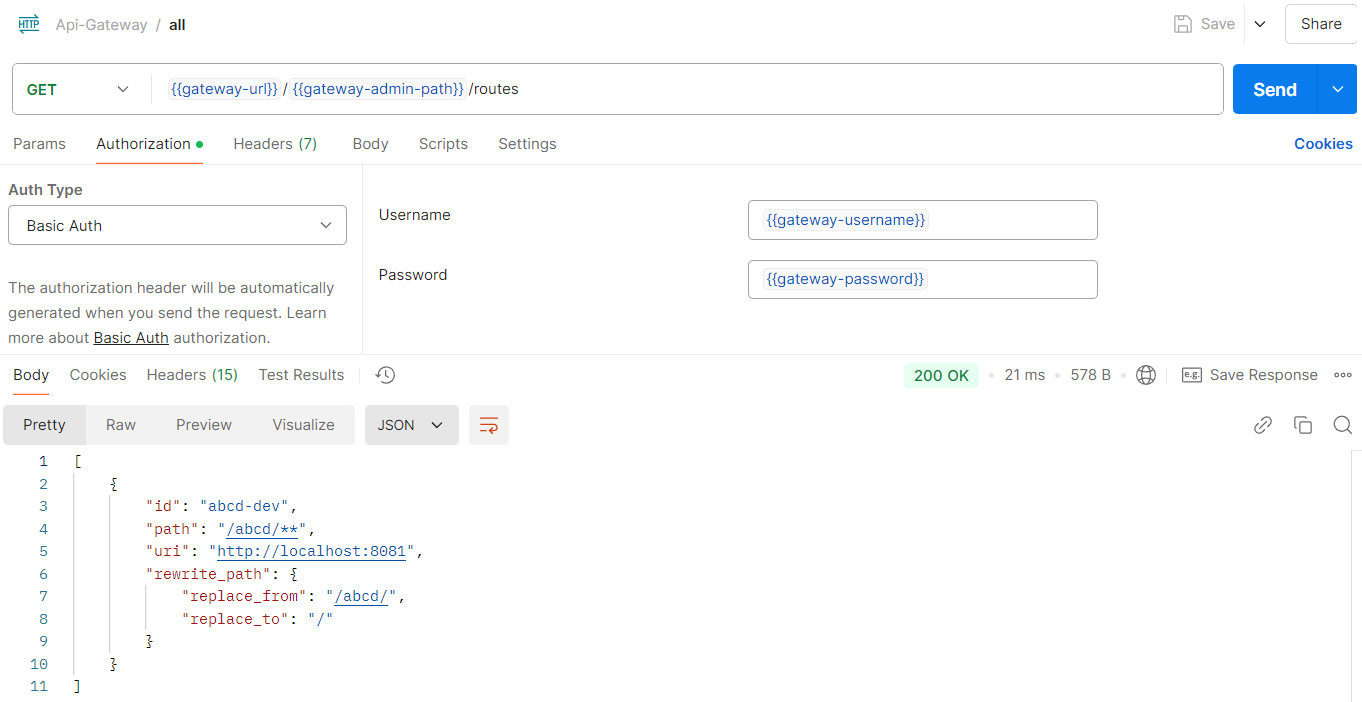
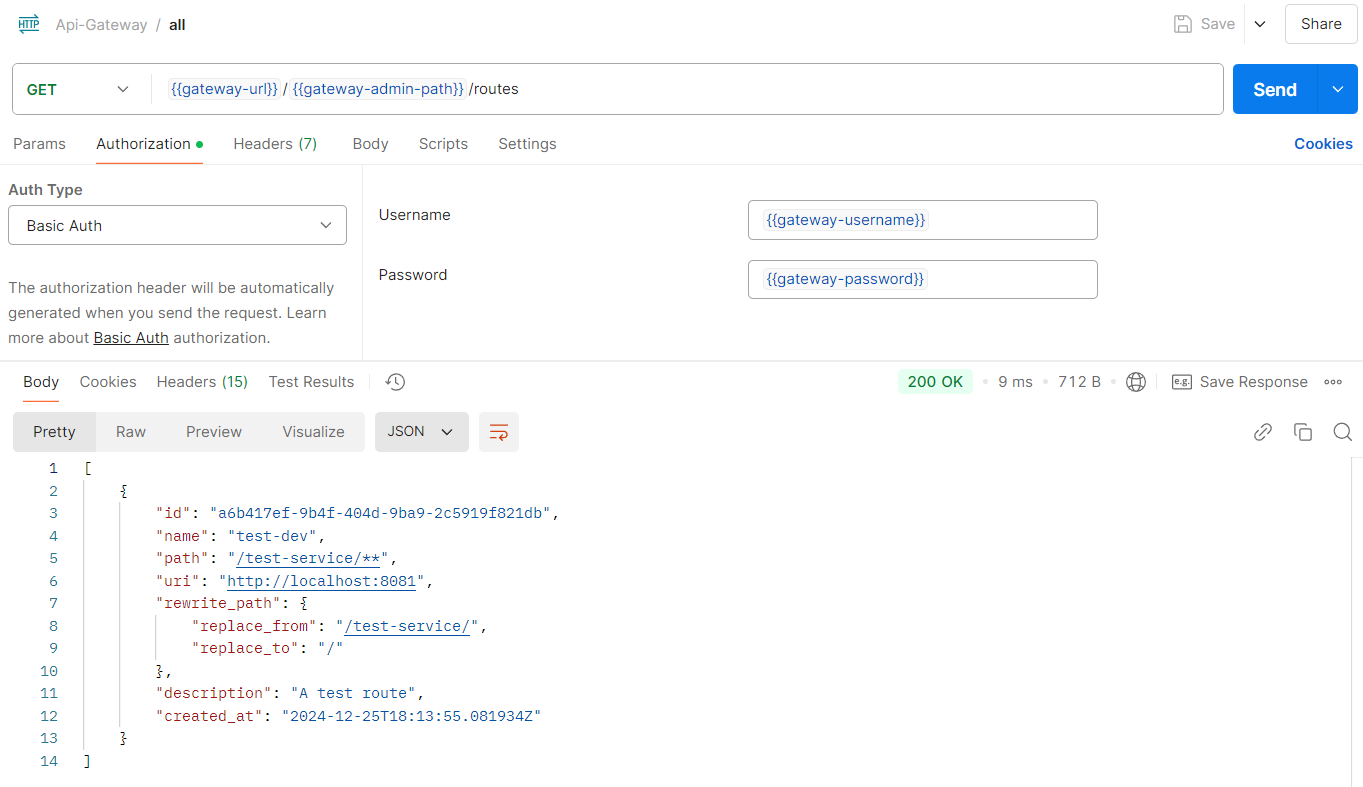
Impr [docs]: fix docs for version 4.x

diff --git a/src/main/java/dev/root101/api_gateway/App.java b/src/main/java/dev/root101/api_gateway/App.java
@@ -2,7 +2,9 @@ package dev.root101.api_gateway;
 
 import org.springframework.boot.SpringApplication;
 import org.springframework.boot.autoconfigure.SpringBootApplication;
+import org.springframework.boot.test.context.SpringBootTest;
 
+@SpringBootTest
 @SpringBootApplication
 public class App {
 

diff --git a/README.md b/README.md
@@ -24,7 +24,7 @@ try to use the latest tag, in this case 2.2.0)
 NOTE #4: We recommend that you always use the latest available version, this way you can enjoy all the features, a more
 polished project and an overall better experience.
 
-## This is the docs for version 3.x:
+## This is the docs for version 4.x:
 
 ---
 **title:** Api-Gateway </br>
@@ -37,11 +37,12 @@ polished project and an overall better experience.
 
 ---
 
-#### About v3.x:
+#### About v4.x:
 
-This version add a management api to configure the gateway services without redeploying the service.
+This version adds a postgres DB so that the route configuration can be saved and can be loaded if the service is
+restarted.
 
-This version include the api docs and a postman collection with preconfigured endpoints
+This version include the api docs and a postman collection with preconfigured endpoints.
 
 ### Env Variables to configure the service:
 
@@ -55,6 +56,11 @@ To configure the project we have a variety of environmental variables at our dis
 | ADMIN_USERNAME   | Username of the admin user                | text     | admin                       | 3.x              |
 | ADMIN_PASSWORD   | Password of the admin user                | text     | admin123**                  | 3.x              |
 | ADMIN_PATH       | Path of the admin (management) endpoints  | text     | _admin                      | 3.x              |
+| DB_HOST          | Host of the running DB                    | text     | localhost                   | 4.x              |
+| DB_PORT          | Port of the running DB                    | integer  | 5432                        | 4.x              |
+| DB_NAME          | Name of the DB                            | text     | api-gateway                 | 4.x              |
+| DB_USERNAME      | Username of the DB user                   | text     | postgres                    | 4.x              |
+| DB_PASSWORD      | Password of the DB user                   | text     | postgres_password           | 4.x              |
 
 ##### PORT, PROFILE & APPLICATION_NAME:
 
@@ -89,6 +95,17 @@ This way, if we have a service that is expected to be redirected to, and we want
 modify said variable so that that path is not occupied and the requests are redirected to the service instead of the
 configuration controller.
 
+##### DB_HOST, DB_PORT, DB_NAME, DB_USERNAME, DB_PASSWORD:
+
+These environment variables are used to configure the connection to the DB, and are then used as follows:
+
+```
+  r2dbc:
+    url: r2dbc:postgresql://${DB_HOST}:${DB_PORT}/${DB_NAME}          #jdbc:postgresql:/host:port/db-name?stringtype=unspecified
+    username: ${DB_USERNAME}                                          #postgres
+    password: ${DB_PASSWORD}                                          #admin123
+```
+
 ### Api docs:
 
 The administration API gives us access to endpoint to configure the routes, here we have:
@@ -96,13 +113,14 @@ The administration API gives us access to endpoint to configure the routes, here
 | Method | Endpoint                  | Description                                                                     | Body                |
 |--------|---------------------------|---------------------------------------------------------------------------------|---------------------|
 | GET    | /_admin/routes            | Get all configured routes in the gateway                                        | No body             |
+| GET    | /_admin/routes/{route-id} | Get details of a single route                                                   | No body             |
 | POST   | /_admin/routes            | Create a new route to redirect                                                  | Route model         |
 | POST   | /_admin/routes/multi-add  | Create multiple routes in same request                                          | List of Route model |
 | PUT    | /_admin/routes/{route-id} | Edit the route with id = route-id, replace it with route in body of the request | Route model         |
 | DELETE | /_admin/routes/{route-id} | Delete the route with id = route-id                                             | No body             |
 
 NOTE: if the value of env `ADMIN_PATH` changes, the endpoint will change. This table is based on the default value of
-this variable.
+this variable (_admin).
 
 #### Route model:
 
@@ -110,11 +128,12 @@ This is the full json of a route model.
 
 ```json
 {
-  "id": "abcd-dev",
-  "path": "/abcd/**",
+  "name": "test-dev",
+  "path": "/test-service/**",
   "uri": "http://localhost:8081",
+  "description": "A test route",
   "rewrite_path": {
-    "replace_from": "/abcd/",
+    "replace_from": "/test-service/",
     "replace_to": "/"
   }
 }
@@ -122,12 +141,13 @@ This is the full json of a route model.
 
 Here we have:
 
-| Field        | Required | Description                                                                                                 | Validations                        | Recommendations                                                                                                                                                                                                                                                             |
-|--------------|----------|-------------------------------------------------------------------------------------------------------------|------------------------------------|-----------------------------------------------------------------------------------------------------------------------------------------------------------------------------------------------------------------------------------------------------------------------------|
-| id           | true     | Name with which this route will be identified for edit/delete operations. Unique identifier for each route. | - Not null<br/>-Not Empty          | Use a unique, easy to identify value                                                                                                                                                                                                                                        |
-| path         | true     | Route with which the redirection to a specific service will be identified                                   | - Not null<br/>-Not Empty          | Use in the format /{path}/**, this means that all requests made to https://gateway/{path}/..... will be redirected to this route                                                                                                                                            |
-| uri          | true     | Url of the service to which you are going to redirect                                                       | - Not null<br/>-Not Empty<br/>-Url | Use same base url of the service (preferably a private URL without internet access, which can only be accessed through the gateway)                                                                                                                                         |
-| rewrite_path | false    | 'Filter' to rewrite the final path to which the request is made (replace in final url the *from* => *to*)   | - Not null<br/>-Not Empty<br/>     | Use to fix the extra path added by path property. With example, a request made to:  https://gateway/abcd/users/search, by default will be redirected to: http://localhost:8081/abcd/users/search, but with rewrite will be redirected to http://localhost:8081/users/search |
+| Field        | Required | Description                                                                                                | Validations                        | Recommendations                                                                                                                                                                                                                                                             |
+|--------------|----------|------------------------------------------------------------------------------------------------------------|------------------------------------|-----------------------------------------------------------------------------------------------------------------------------------------------------------------------------------------------------------------------------------------------------------------------------|
+| name         | true     | Name with which this route will be identified (human like name). It's an unique identifier for each route. | - Not null<br/>-Not Empty          | Use a unique, easy to identify value                                                                                                                                                                                                                                        |
+| path         | true     | Route with which the redirection to a specific service will be identified                                  | - Not null<br/>-Not Empty          | Use in the format /{path}/**, this means that all requests made to https://gateway/{path}/..... will be redirected to this route                                                                                                                                            |
+| uri          | true     | Url of the service to which you are going to redirect                                                      | - Not null<br/>-Not Empty<br/>-Url | Use same base url of the service (preferably a private URL without internet access, which can only be accessed through the gateway)                                                                                                                                         |
+| description  | false    | Additional description of the route                                                                        |                                    | Use it for some basic descriptive description of the route                                                                                                                                                                                                                  |
+| rewrite_path | false    | 'Filter' to rewrite the final path to which the request is made (replace in final url the *from* => *to*)  | - Not null<br/>-Not Empty<br/>     | Use to fix the extra path added by path property. With example, a request made to:  https://gateway/abcd/users/search, by default will be redirected to: http://localhost:8081/abcd/users/search, but with rewrite will be redirected to http://localhost:8081/users/search |
 
 ### Admin endpoint examples:
 

diff --git a/CHANGELOG.md b/CHANGELOG.md
@@ -1,3 +1,8 @@
+* 4.x:
+    * 4.0.0:
+        * **DATE** :date: : 2024-12-25.
+        * **General** :hammer_and_wrench: : Initial version 4.0.0 (first of tag 4.x).
+
 * 3.x:
     * 3.0.0:
         * **DATE** :date: : 2024-12-02.
